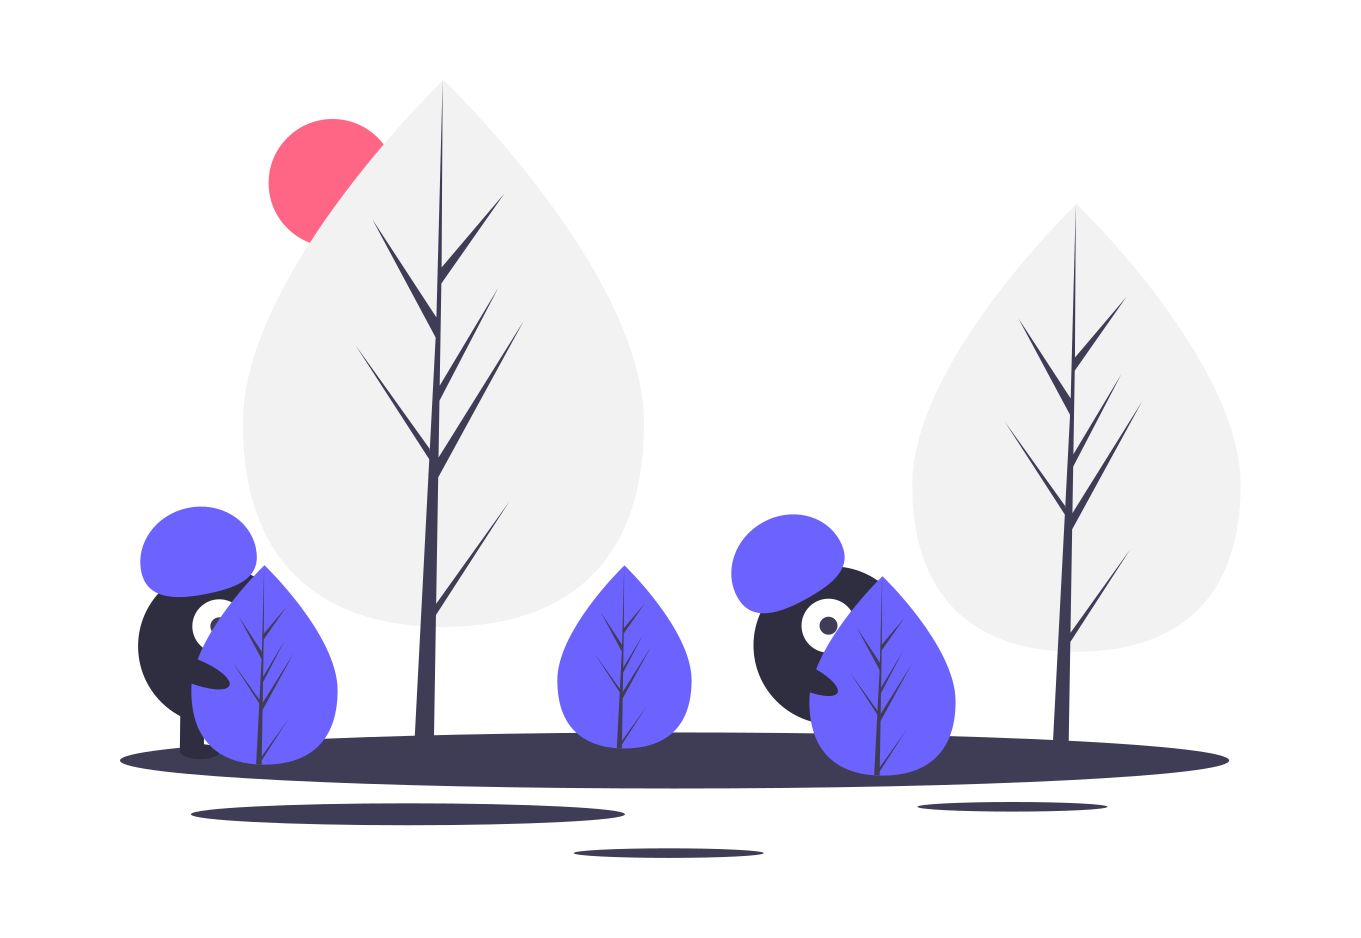
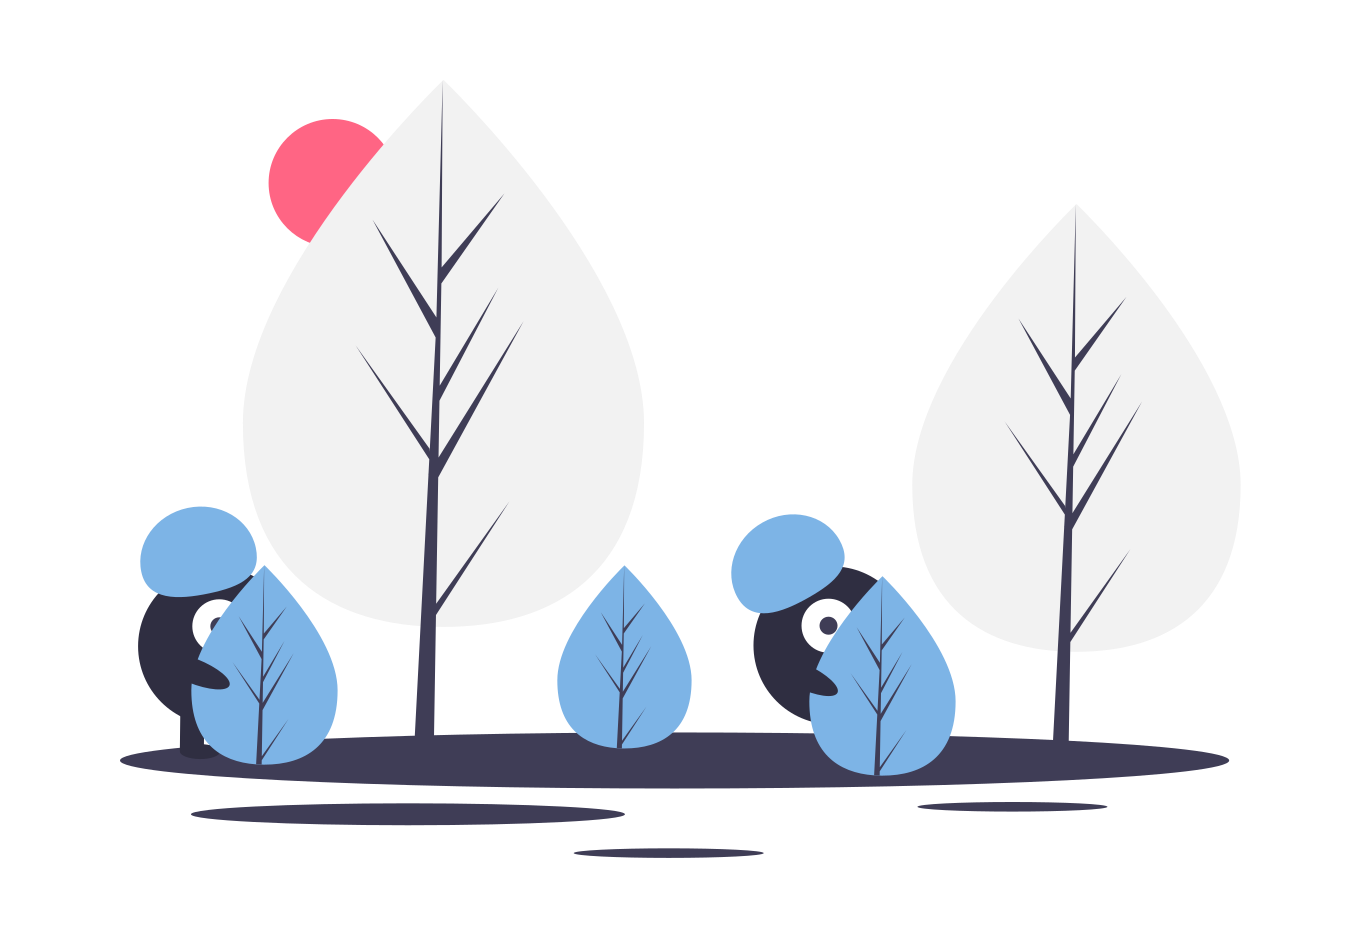
更新：画像の色変更 #69

Changed region(s): [[0.0926, 0.5256, 0.2469, 0.8348], [0.5246, 0.5256, 0.7098, 0.8348], [0.4012, 0.5874, 0.5246, 0.8038]]

diff --git a/app/assets/stylesheets/tops.scss b/app/assets/stylesheets/tops.scss
@@ -128,7 +128,7 @@ a:hover {
 }
 
 .sign-up-image {
-    background-image: url("/assets/sign-up.png");
+    background-image: url("/assets/signup.png");
     background-repeat: no-repeat;
     margin-top: 80px;
     background-size: 100%;

diff --git a/app/assets/stylesheets/teams.scss b/app/assets/stylesheets/teams.scss
@@ -11,9 +11,6 @@
 // -----team index-----
 
 
-
-
-
 // -----team 検索 ソート-----
 
 .search-box {
